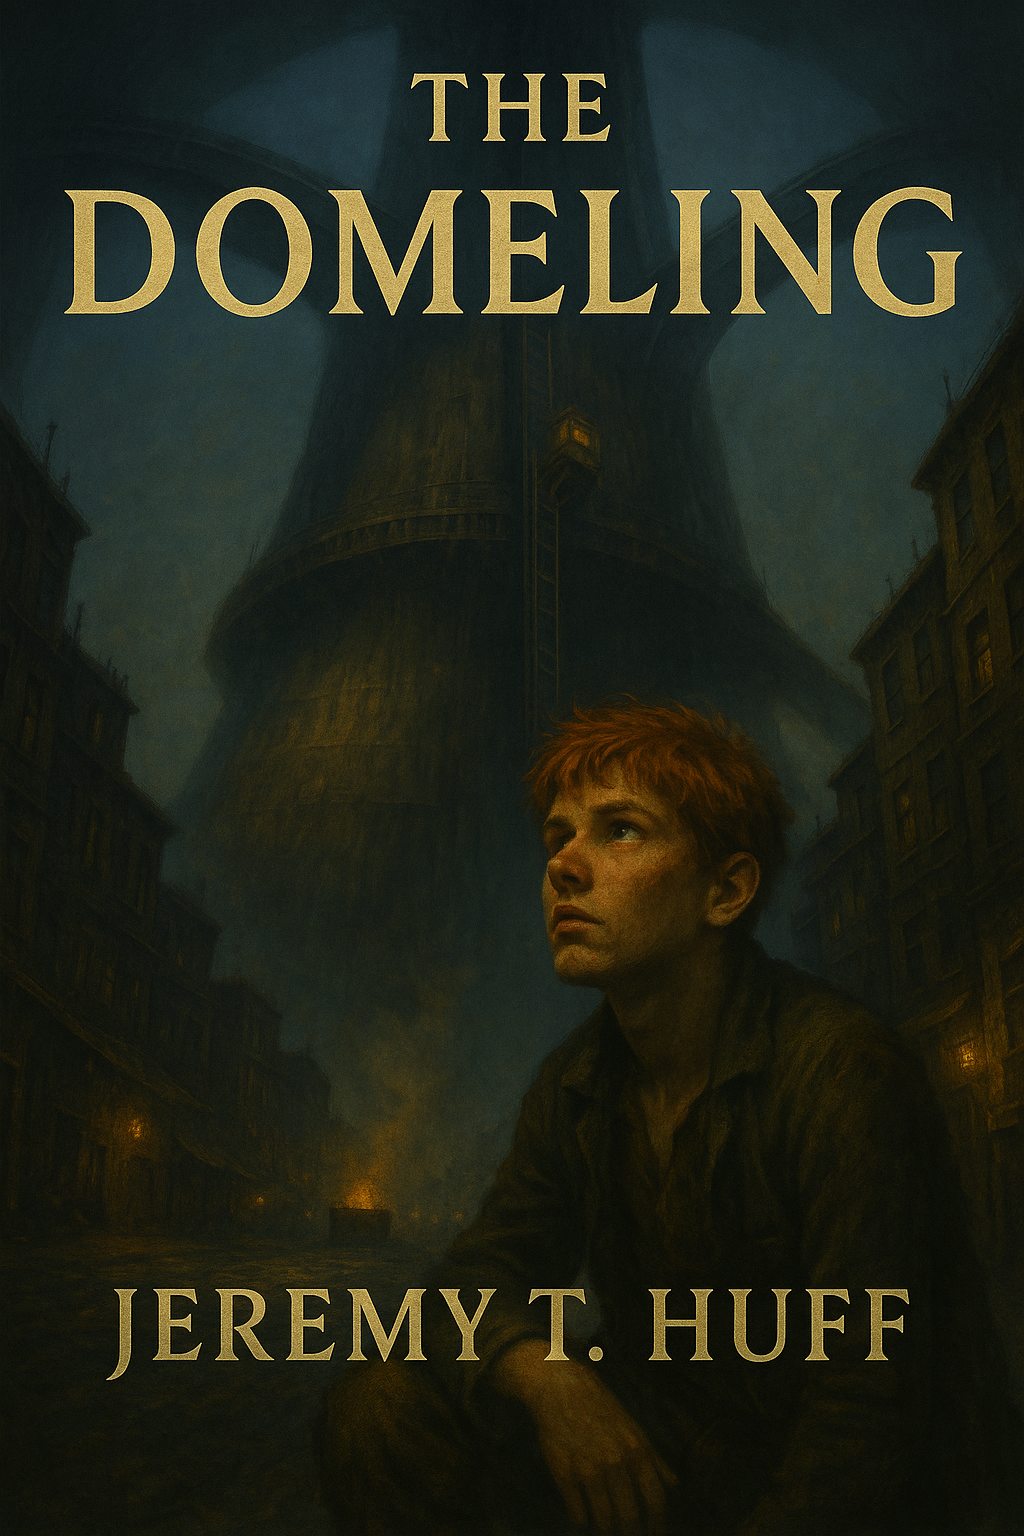
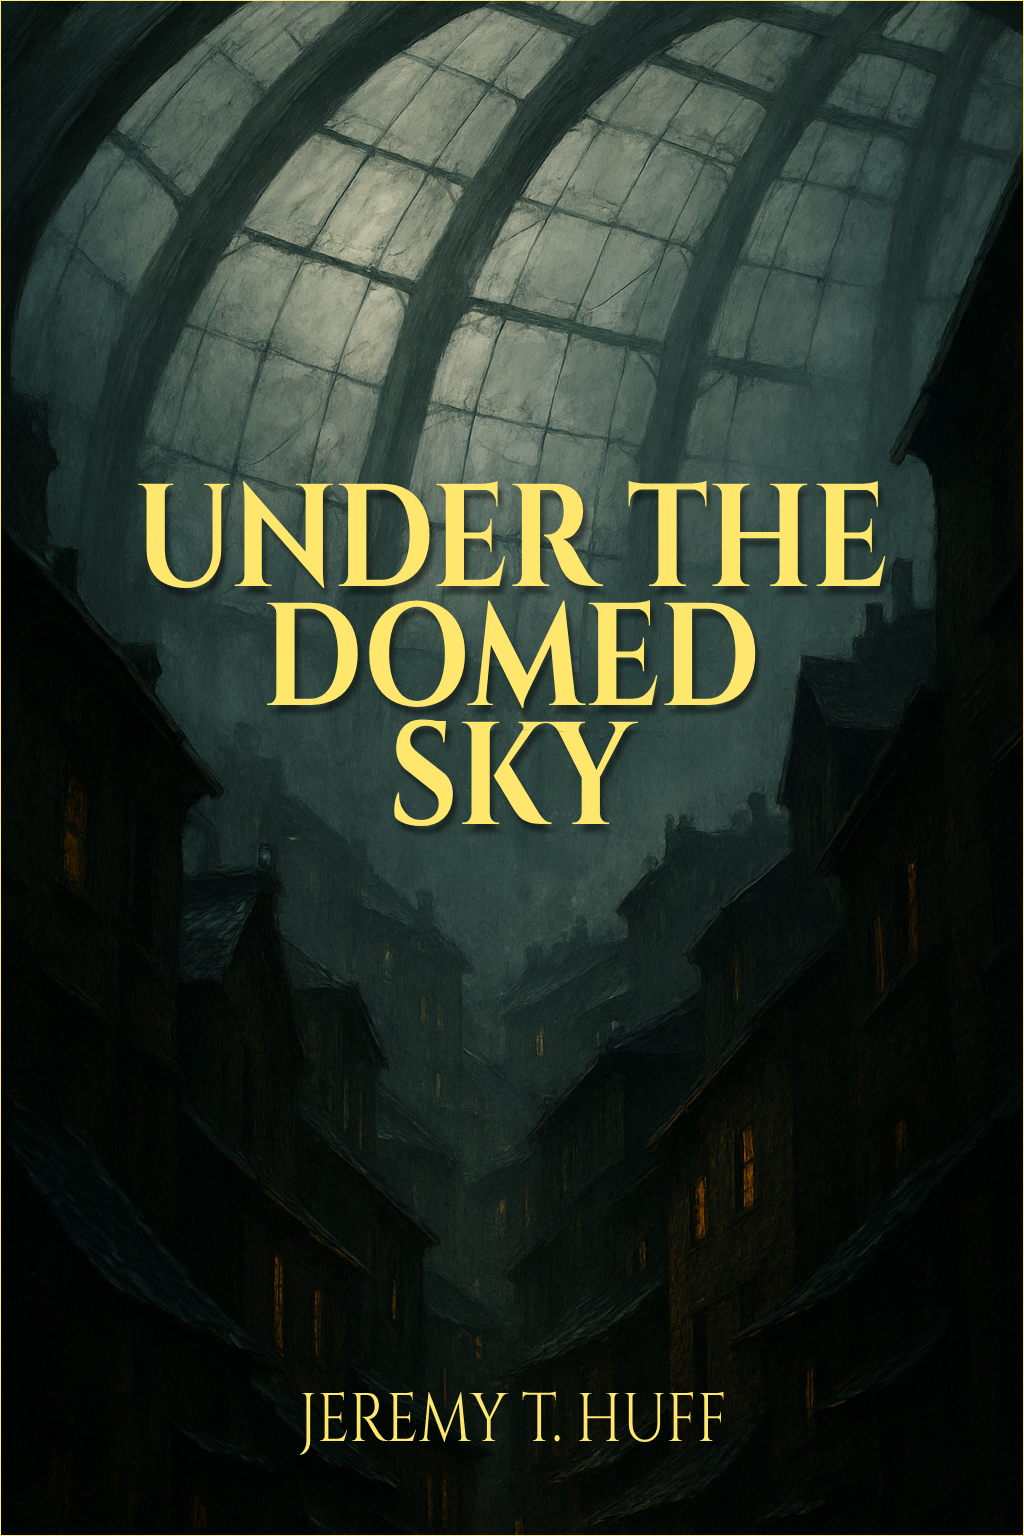
Changed book title

diff --git a/index.html b/index.html
@@ -76,7 +76,7 @@
                     <img src="resources/images/cover.png" alt="Latest Project" class="latest-project-image img-fluid rounded">
                 </div>
                 <div class="col-md-8 justify-items-top">
-                    <h3 class="emphasis-heading">THE DOMELING</h3>
+                    <h3 class="emphasis-heading">UNDER THE DOMED SKY</h3>
                     <p>Of all the urchin that crowded in the small places of Levendom, Treaky Botmer was one.<br>
                     Unwashed, unread, unseen—and any other “un” that might be thought of—Treaky in no way stood out from the masses of the domed city. In no way that could be seen.<br>
                     <br>A streetwise urchin; An enigmatic investigator; A dutiful yet rebelious sister; a cruel alchoholic father.<br>
